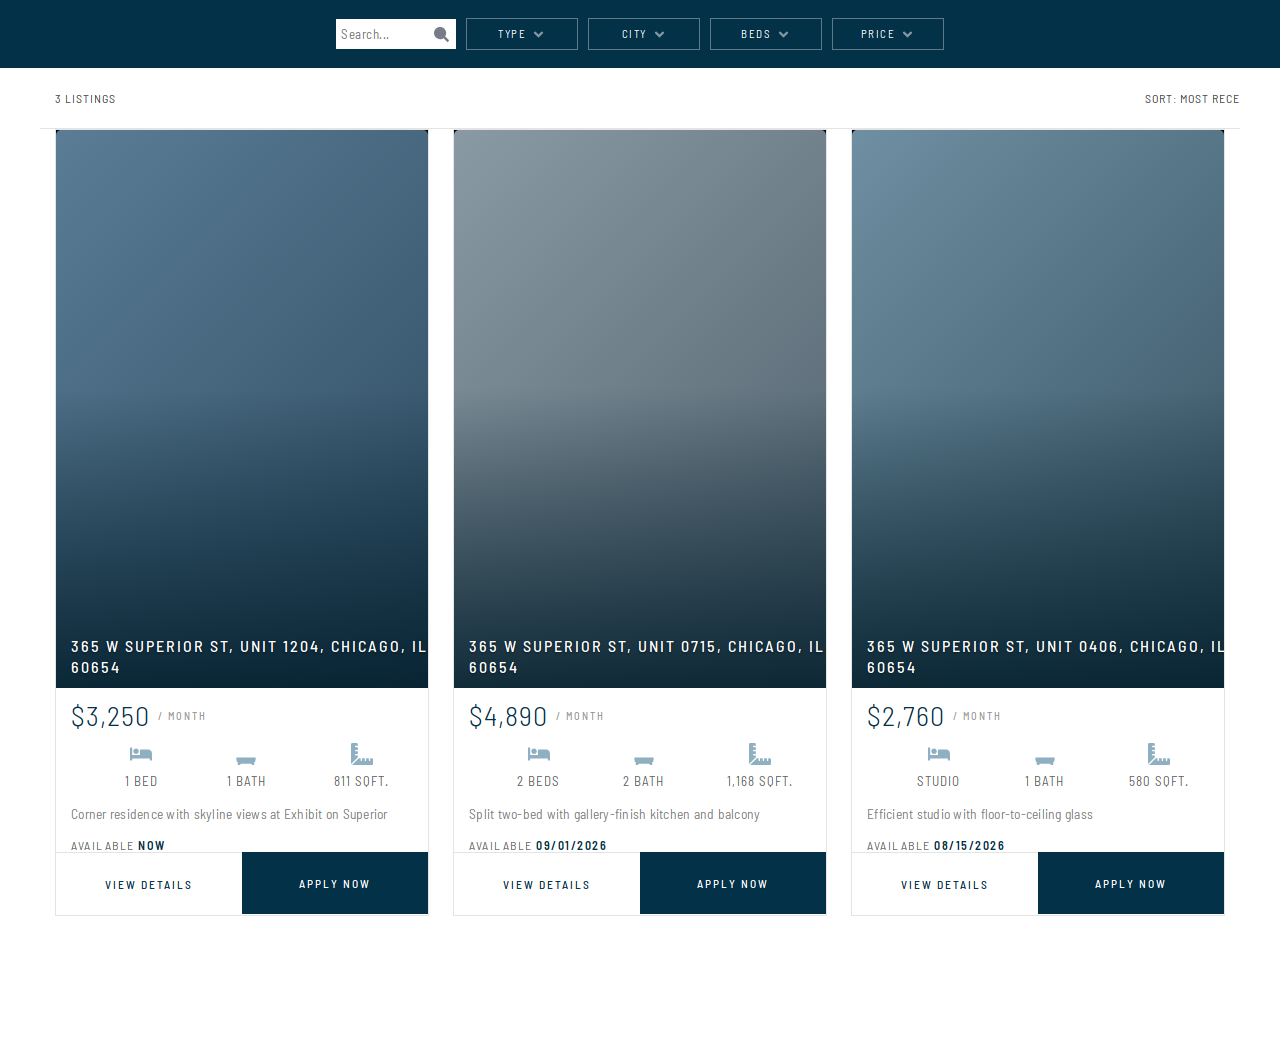
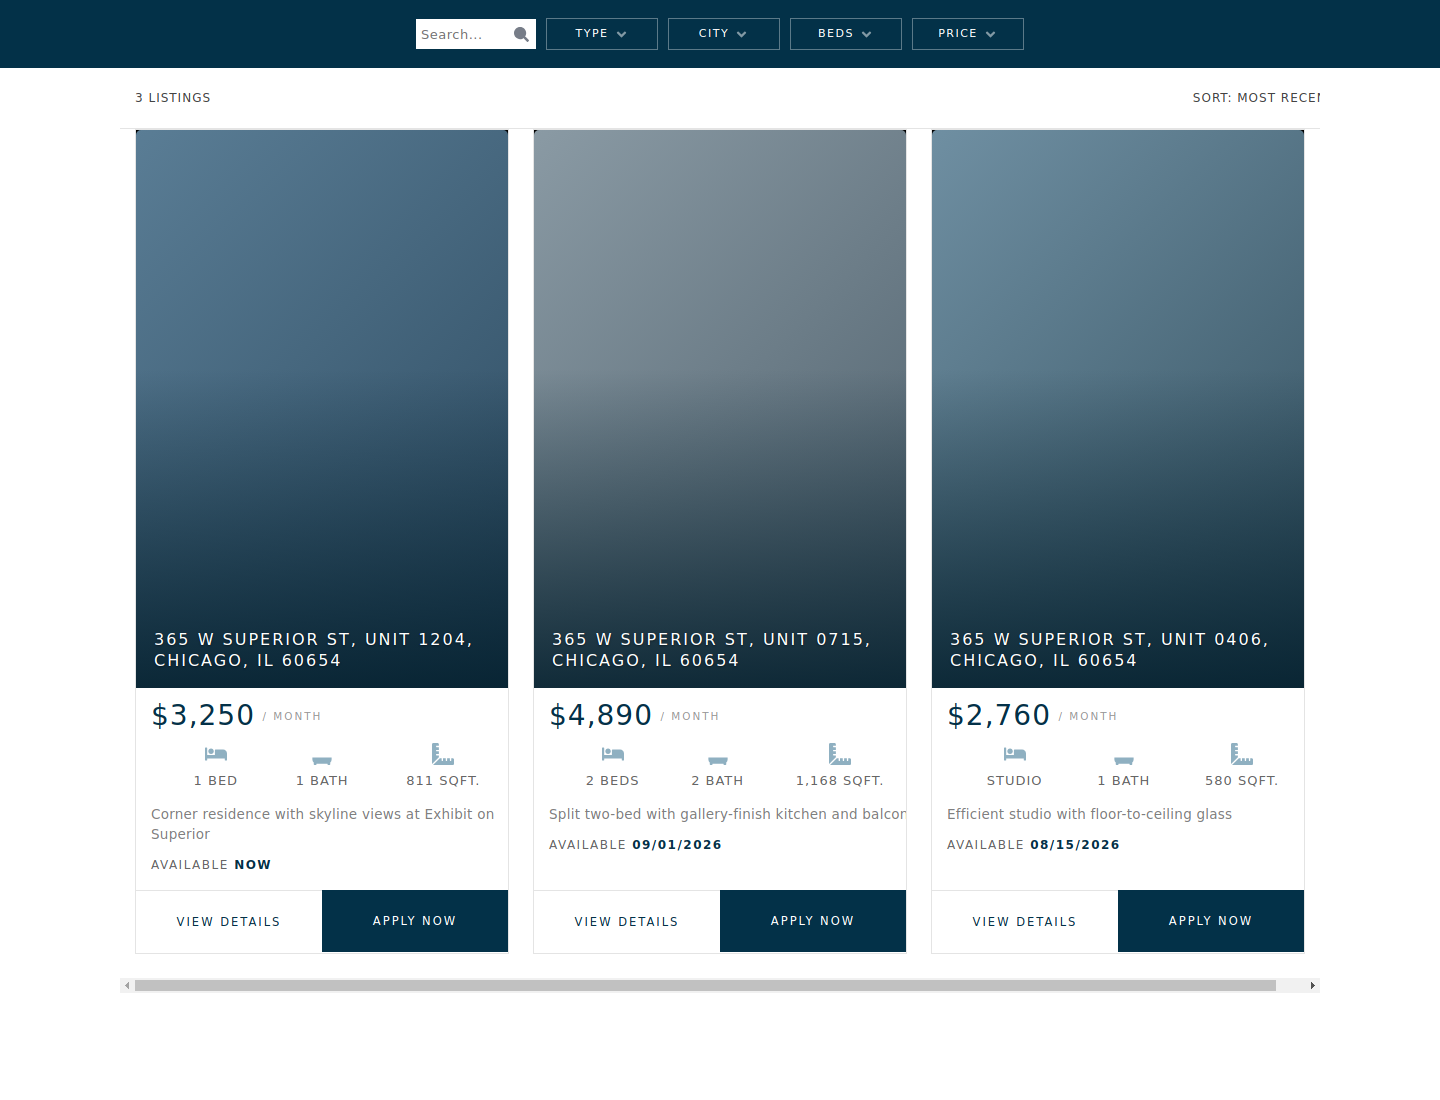
Update availability data and refresh Highland facelift styling and previews
Replit-Commit-Author: Agent

Changed region(s): [[0.0, 0.0, 1.0, 0.9143]]

diff --git a/highland-facelift-kit/highland-listings.css b/highland-facelift-kit/highland-listings.css
@@ -1,5 +1,5 @@
 /* ============================================================
-   HIGHLAND PARTNERS — AppFolio Listings Widget Facelift  (v1.0)
+   HIGHLAND PARTNERS — AppFolio Listings Widget Facelift  (v1.1)
    ------------------------------------------------------------
    Paste this whole block into the Duda editor's custom-CSS
    panel (see INSTALL.md). It restyles the AppFolio "Vacancies
@@ -138,6 +138,8 @@
   line-height: 1.35 !important;
   background: linear-gradient(rgba(3, 49, 72, 0), rgba(2, 30, 44, 0.85)) !important;
   text-shadow: 0 1px 2px rgba(0, 0, 0, 0.45) !important;
+  /* Breathing room inside the photo so the address never hugs the edges */
+  padding: 24px 18px 16px !important;
 }
 
 /* Photo slider chrome: square counters */
@@ -202,9 +204,10 @@
    ------------------------------------------------------------ */
 /* Buttons are absolutely positioned at the card's bottom edge; the
    default card body reserves room for 40px buttons. Ours are 46px,
-   so reserve a little more so nothing is covered. */
+   plus extra clearance so the card text gets breathing room above
+   the buttons. */
 .listings-widget .listing-item .info {
-  padding-bottom: 64px !important;
+  padding-bottom: 82px !important;
 }
 
 .listings-widget .info .lower-buttons a.btn {
